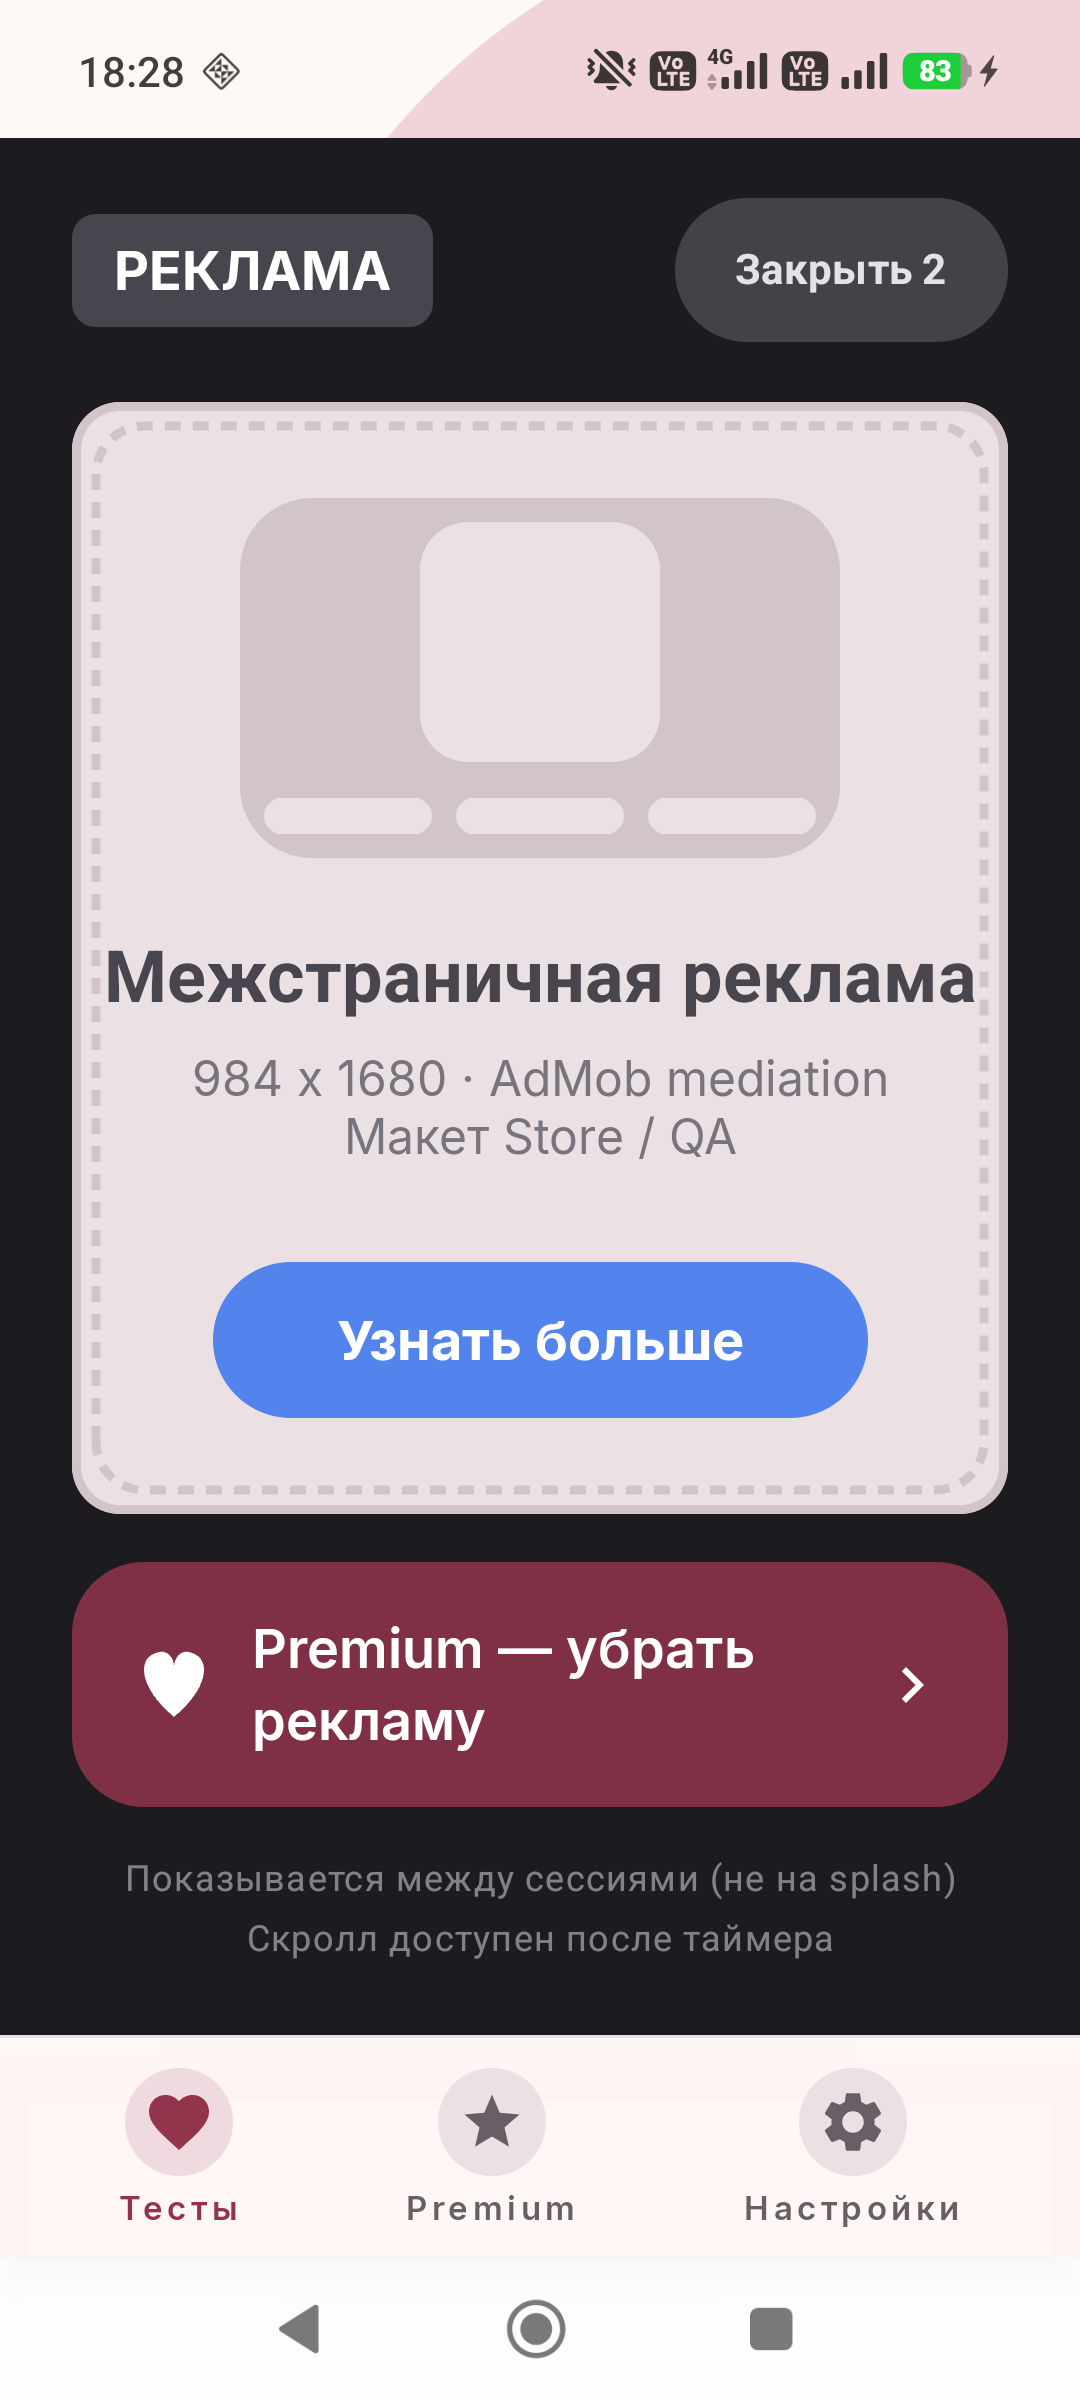
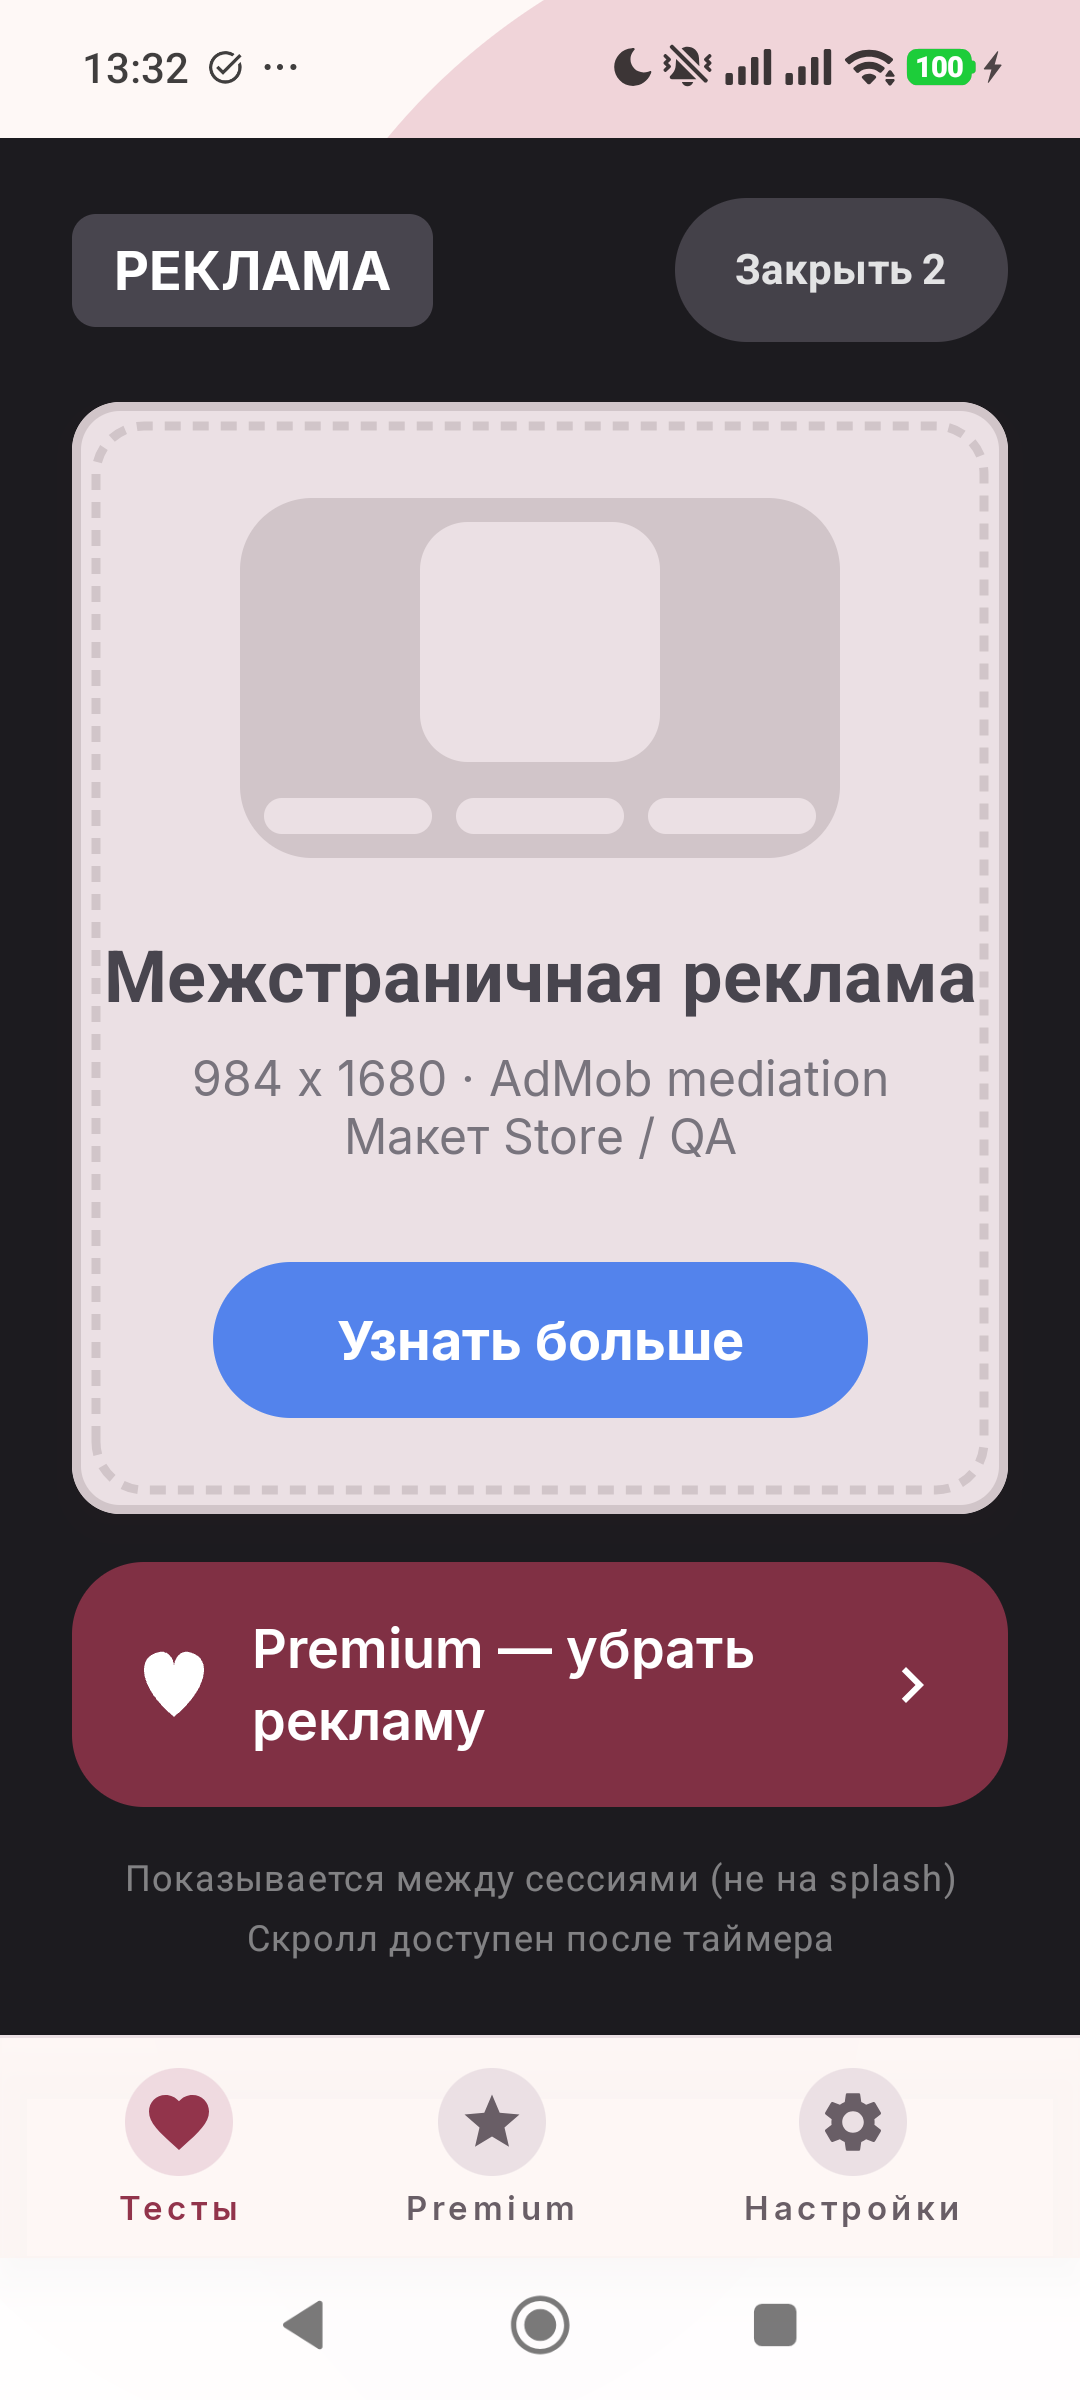
Mark agent idle after PRODUCTION_ROLLOUT sync; refresh ad placeholder QA.

diff --git a/AGENT_STATUS.md b/AGENT_STATUS.md
@@ -4,13 +4,13 @@
 > Обновляй ПОСЛЕ каждого осмысленного изменения. Новые записи журнала — сверху.
 
 ## Снимок
-- **Стадия:** локально **GO** · следующий шаг = **Play Internal upload** (пользователь).
-- **Upload:** `docs/store/INTERNAL_UPLOAD_NOW.md` · `PLAY_READY.md` синхронизирован.
+- **Стадия:** агент **IDLE / waiting on user** — локально всё GO.
+- **Next user:** Play Console Internal upload → `docs/store/INTERNAL_UPLOAD_NOW.md`
 - **Cert SHA-256:** `6D:27:9A:11:08:2C:C0:B5:DA:A4:9B:9B:3B:1C:CD:0B:1B:0D:F4:14:03:ED:C2:0A:B4:1B:7C:FF:22:5D:B3:19`
-- **AVD:** RAM ~90 MB free → snapshot boot SKIP (`boot_capture_from_snapshot.sh`).
-- **Docs:** убраны устаревшие «privacy 404 / example.com» из PLAY_READY и связанных статусов.
+- Checklist / legal 200×3 / AAB pack / docs synced. AVD skip (host free ≪ 3.4 GB).
+- Дальнейшие «find work» без Play upload = только idle rechecks.
 
 ## Журнал
-- 2026-07-22 ~13:30 — Stale docs sync (PLAY_READY, PROJECT_STATUS, AUDIT, V2_BACKLOG, GO_LIVE, FULL_APP_AUDIT) · Xiaomi older screens refresh.
-- 2026-07-22 ~13:25 — Privacy device smoke · RAM-gated snapshot boot · Xiaomi gap QA.
-- 2026-07-22 ~13:11 — bundleRelease + store pack · Legal 200×3.
+- 2026-07-22 ~13:32 — Recheck: clean · PRODUCTION_ROLLOUT verdict sync · agent IDLE.
+- 2026-07-22 ~13:30 — Stale privacy-404 docs cleared (`f91aa7f`).
+- 2026-07-22 ~13:11 — AAB pack · Legal live.

diff --git a/docs/store/PRODUCTION_ROLLOUT.md b/docs/store/PRODUCTION_ROLLOUT.md
@@ -34,18 +34,18 @@ Package: `dev.lovetest.app` · `versionCode` 1 · `versionName` 1.0.0
 | Data safety / rating incomplete | [PLAY_FORMS_FILLED.md](./PLAY_FORMS_FILLED.md) |
 | Crashlytics не подключён — **не блокер v1**, но без автоматического краш-алерта — усилить ручной мониторинг vitals |
 
-### Вердикт на 2026-06-04 (обновлено)
+### Вердикт на 2026-07-22
 
 | Трек | Статус |
 |------|--------|
 | Upload-пакет + prod AAB | ✅ |
 | Prod keystore | ✅ (см. `AGENT_STATUS` SHA-256) |
-| Internal testing | **GO** — [GO_NO_GO_V1.md](./GO_NO_GO_V1.md) |
-| Privacy Pages | ⏳ после `git push` + Pages workflow |
-| Store PNG (UI-фиксы) | ⏳ пересъёмка рекомендуется |
-| Production 100% | **NO-GO** до Closed smoke |
+| Privacy Pages | ✅ HTTP 200 ×3 (`skmlproduction`) |
+| Store PNG | ✅ 67/67 · catalog 34/34 RU+EN |
+| Internal testing | **GO** — залить AAB: [INTERNAL_UPLOAD_NOW.md](./INTERNAL_UPLOAD_NOW.md) |
+| Production 100% | **NO-GO** до Closed IAP smoke |
 
-**Рекомендация:** **GO Internal** → Closed + billing → затем staged Production.
+**Рекомендация:** **Upload Internal сейчас** → smoke → Closed + billing → staged Production.
 
 ---
 